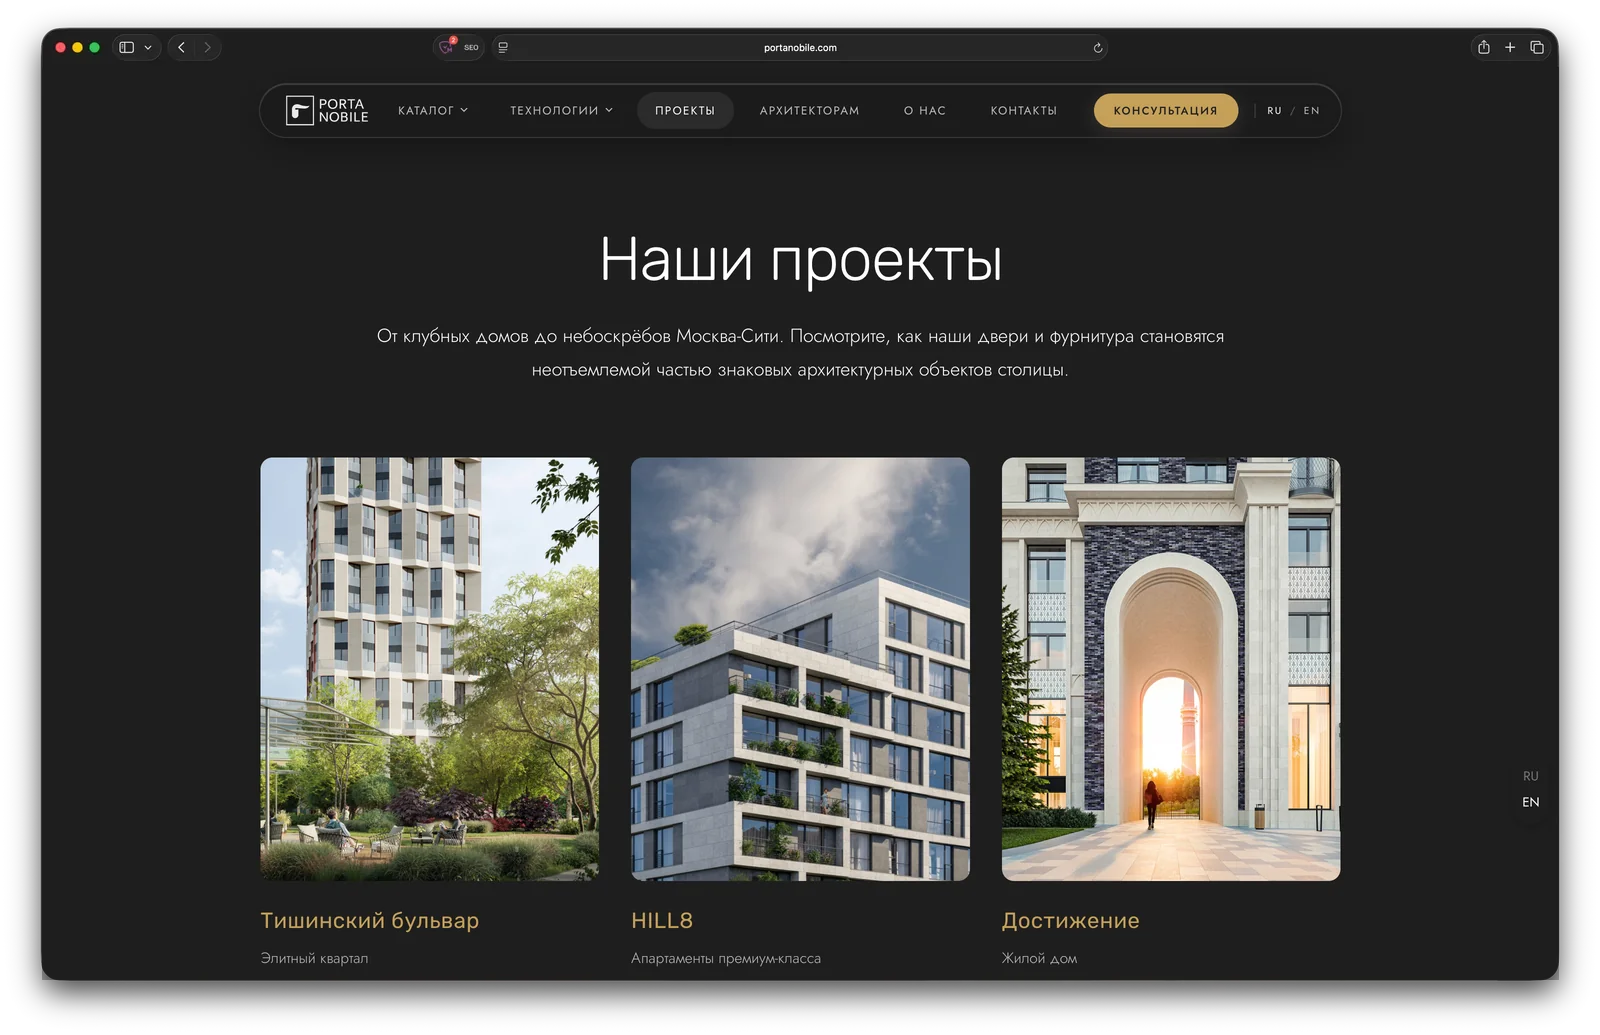
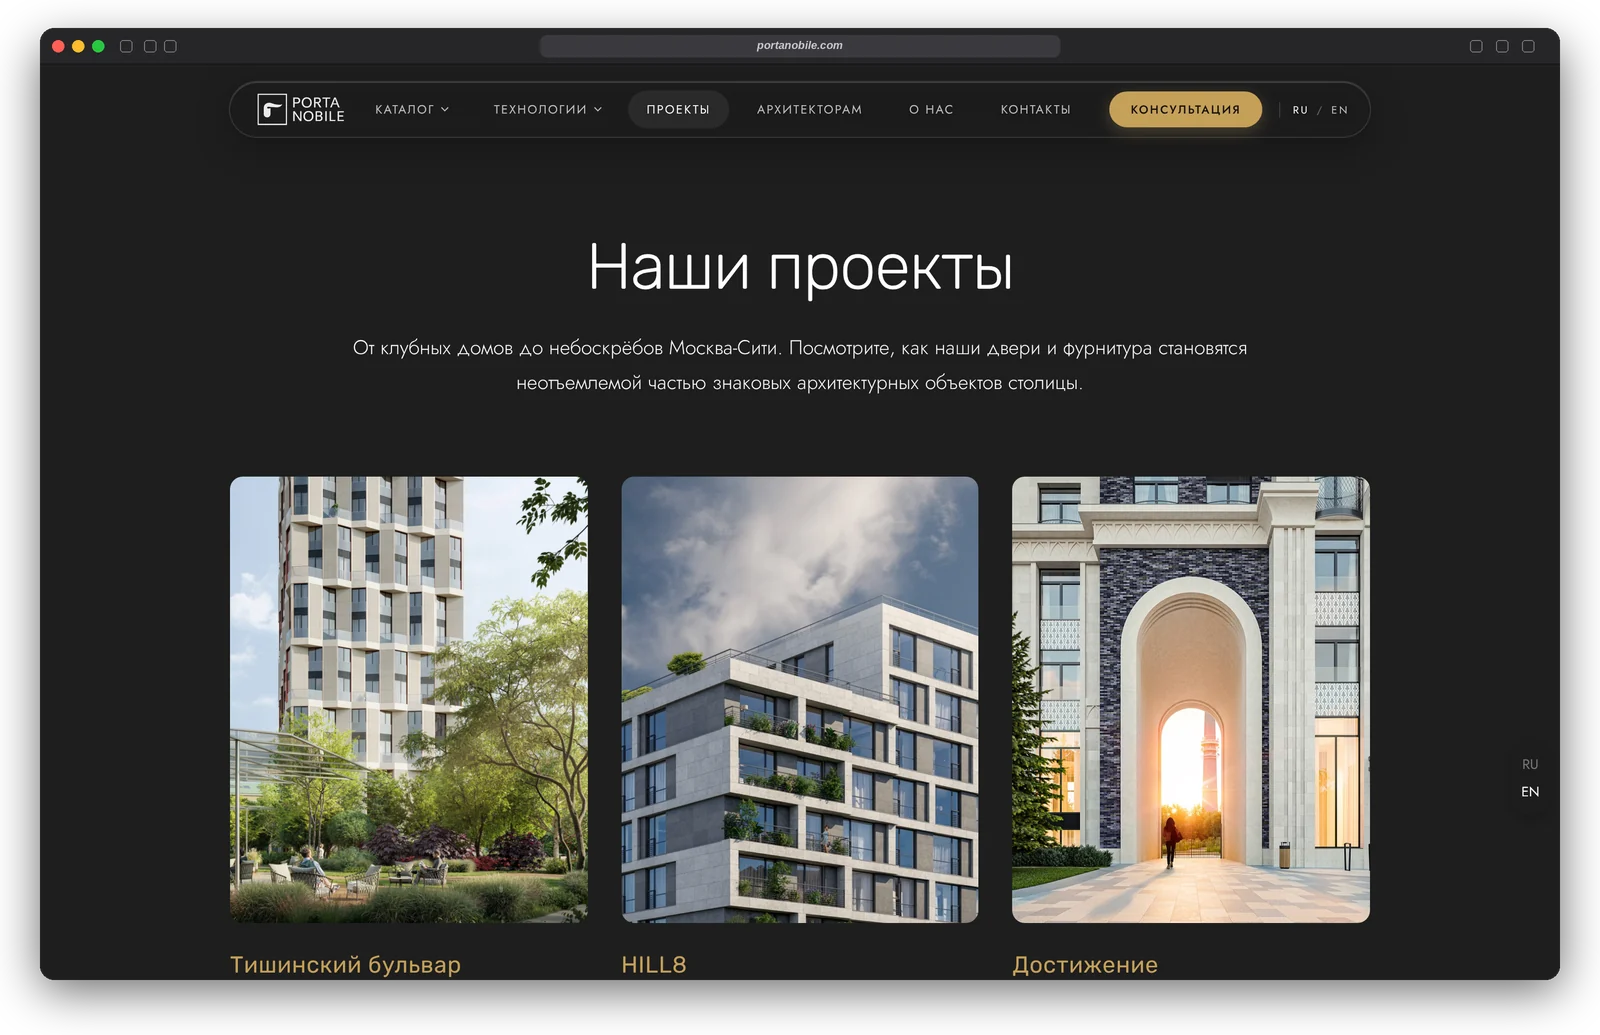
content: fresh Porta Nobile screenshots
Re-shoot portanobile.com (hero, brand block, categories, projects page)
at 2x and frame them in the same Safari window as before; refresh the
deck thumbnail. Update the two alt texts that described the old dark
hero, and version the image URLs so browsers fetch the new files.

Claude-Session: https://claude.ai/code/session_01WhDUb9GbkP8SAaaChswfYD

diff --git a/case-porta-nobile.html b/case-porta-nobile.html
@@ -275,8 +275,8 @@ if(c==='1')arm()})();
     </dl>
 
     <figure class="case-shot reveal" data-d="2">
-      <img src="images/portanobile.webp?v=5"
-           alt="Первый экран сайта Porta Nobile: тёмная обложка с заголовком «Двери и фурнитура, которые запоминаются»"
+      <img src="images/portanobile.webp?v=6"
+           alt="Первый экран сайта Porta Nobile: обложка с текстурой мазков краски и заголовком «Двери и фурнитура, которые запоминаются»"
            width="1600" height="1035" loading="eager" decoding="async">
       <figcaption>Тёмное исполнение выбрано намеренно: премиальный сегмент читается ещё до того, как человек начнёт читать текст.</figcaption>
     </figure>
@@ -315,7 +315,7 @@ if(c==='1')arm()})();
     </div>
 
     <figure class="case-shot reveal">
-      <img src="images/portanobile-about.webp?v=1"
+      <img src="images/portanobile-about.webp?v=6"
            alt="Блок «Искусство в каждой детали» на сайте Porta Nobile: текст о бренде и чёрно-белый кадр работы мастера"
            width="1600" height="1035" loading="lazy" decoding="async">
       <figcaption>Блок о бренде: тёмная типографика и чёрно-белый кадр работы мастера.</figcaption>
@@ -338,14 +338,14 @@ if(c==='1')arm()})();
     </div>
 
     <figure class="case-shot reveal">
-      <img src="images/portanobile-categories.webp?v=1"
+      <img src="images/portanobile-categories.webp?v=6"
            alt="Популярные категории каталога Porta Nobile: дверные ручки и автоматические петли"
            width="1600" height="1035" loading="lazy" decoding="async">
       <figcaption>Популярные категории каталога: крупные карточки вместо обычного списка.</figcaption>
     </figure>
 
     <figure class="case-shot reveal">
-      <img src="images/portanobile-projects.webp?v=1"
+      <img src="images/portanobile-projects.webp?v=6"
            alt="Страница проектов Porta Nobile: Тишинский бульвар, HILL8 и Достижение"
            width="1600" height="1035" loading="lazy" decoding="async">
       <figcaption>Проекты на объектах Москвы: Тишинский бульвар, HILL8, Достижение.</figcaption>

diff --git a/case-daria-lukianova.html b/case-daria-lukianova.html
@@ -538,7 +538,7 @@ if(c==='1')arm()})();
           <span class="m2-body"><b>Avanzato</b><span>фотограф, Казань</span><svg class="m2-arr" width="16" height="16" viewBox="0 0 24 24" fill="none" aria-hidden="true"><path d="M7 17L17 7M9 7h8v8" stroke="currentColor" stroke-width="1.7" stroke-linecap="round" stroke-linejoin="round"/></svg></span>
         </a>
         <a class="case-more-card" href="case-porta-nobile.html">
-          <span class="m2-img"><img src="images/portanobile.webp?v=5" alt="Кейс Porta Nobile — сайт люксового бренда фурнитуры" loading="lazy" decoding="async" width="1600" height="1000"></span>
+          <span class="m2-img"><img src="images/portanobile.webp?v=6" alt="Кейс Porta Nobile — сайт люксового бренда фурнитуры" loading="lazy" decoding="async" width="1600" height="1000"></span>
           <span class="m2-body"><b>Porta Nobile</b><span>люкс-фурнитура, Москва</span><svg class="m2-arr" width="16" height="16" viewBox="0 0 24 24" fill="none" aria-hidden="true"><path d="M7 17L17 7M9 7h8v8" stroke="currentColor" stroke-width="1.7" stroke-linecap="round" stroke-linejoin="round"/></svg></span>
         </a>
       </div>

diff --git a/portfolio.html b/portfolio.html
@@ -312,7 +312,7 @@ if(c==='1')arm()})();
           <span class="pl-desc">Люксовая фурнитура, Москва</span>
           <span class="pl-cat">Бизнес</span>
           <span class="pl-arrow" aria-hidden="true"><svg width="22" height="22" viewBox="0 0 24 24" fill="none"><path d="M7 17L17 7M9 7h8v8" stroke="currentColor" stroke-width="1.6" stroke-linecap="round" stroke-linejoin="round"/></svg></span>
-          <span class="pl-thumb"><img src="images/portanobile.webp?v=5" alt="Сайт Porta Nobile: тёмный первый экран с заголовком «Люксовые двери и дизайнерская фурнитура премиум-класса в Москве»" loading="lazy" decoding="async" width="1600" height="1035"></span>
+          <span class="pl-thumb"><img src="images/portanobile.webp?v=6" alt="Сайт Porta Nobile: первый экран с текстурой мазков краски и заголовком «Двери и фурнитура, которые запоминаются»" loading="lazy" decoding="async" width="1600" height="1035"></span>
         </a>
       </li>
       <li class="pl-row reveal" data-cat="Бизнес">

diff --git a/case-avanzato.html b/case-avanzato.html
@@ -504,7 +504,7 @@ if(c==='1')arm()})();
       <h2 class="case-more-h">Другие <em>разборы</em></h2>
       <div class="case-more-grid">
         <a class="case-more-card" href="case-porta-nobile.html">
-          <span class="m2-img"><img src="images/portanobile.webp?v=5" alt="Кейс Porta Nobile — сайт люксового бренда фурнитуры" loading="lazy" decoding="async" width="1600" height="1000"></span>
+          <span class="m2-img"><img src="images/portanobile.webp?v=6" alt="Кейс Porta Nobile — сайт люксового бренда фурнитуры" loading="lazy" decoding="async" width="1600" height="1000"></span>
           <span class="m2-body"><b>Porta Nobile</b><span>люкс-фурнитура, Москва</span><svg class="m2-arr" width="16" height="16" viewBox="0 0 24 24" fill="none" aria-hidden="true"><path d="M7 17L17 7M9 7h8v8" stroke="currentColor" stroke-width="1.7" stroke-linecap="round" stroke-linejoin="round"/></svg></span>
         </a>
         <a class="case-more-card" href="case-medical-fitness.html">

diff --git a/index.html b/index.html
@@ -514,7 +514,7 @@ if(c==='1')arm()})();
         </li>
         <li class="film-frame">
           <a href="case-porta-nobile.html" aria-label="Porta Nobile — смотреть разбор проекта">
-            <span class="film-pic develop"><img src="images/portanobile.webp?v=5" alt="Сайт Porta Nobile — работа Антона Аванзато" loading="lazy" decoding="async" width="1600" height="1035"></span>
+            <span class="film-pic develop"><img src="images/portanobile.webp?v=6" alt="Сайт Porta Nobile — работа Антона Аванзато" loading="lazy" decoding="async" width="1600" height="1035"></span>
             <span class="film-cap"><span class="film-no">03</span><b>Porta Nobile</b><i>люксовая фурнитура</i></span>
           </a>
         </li>
